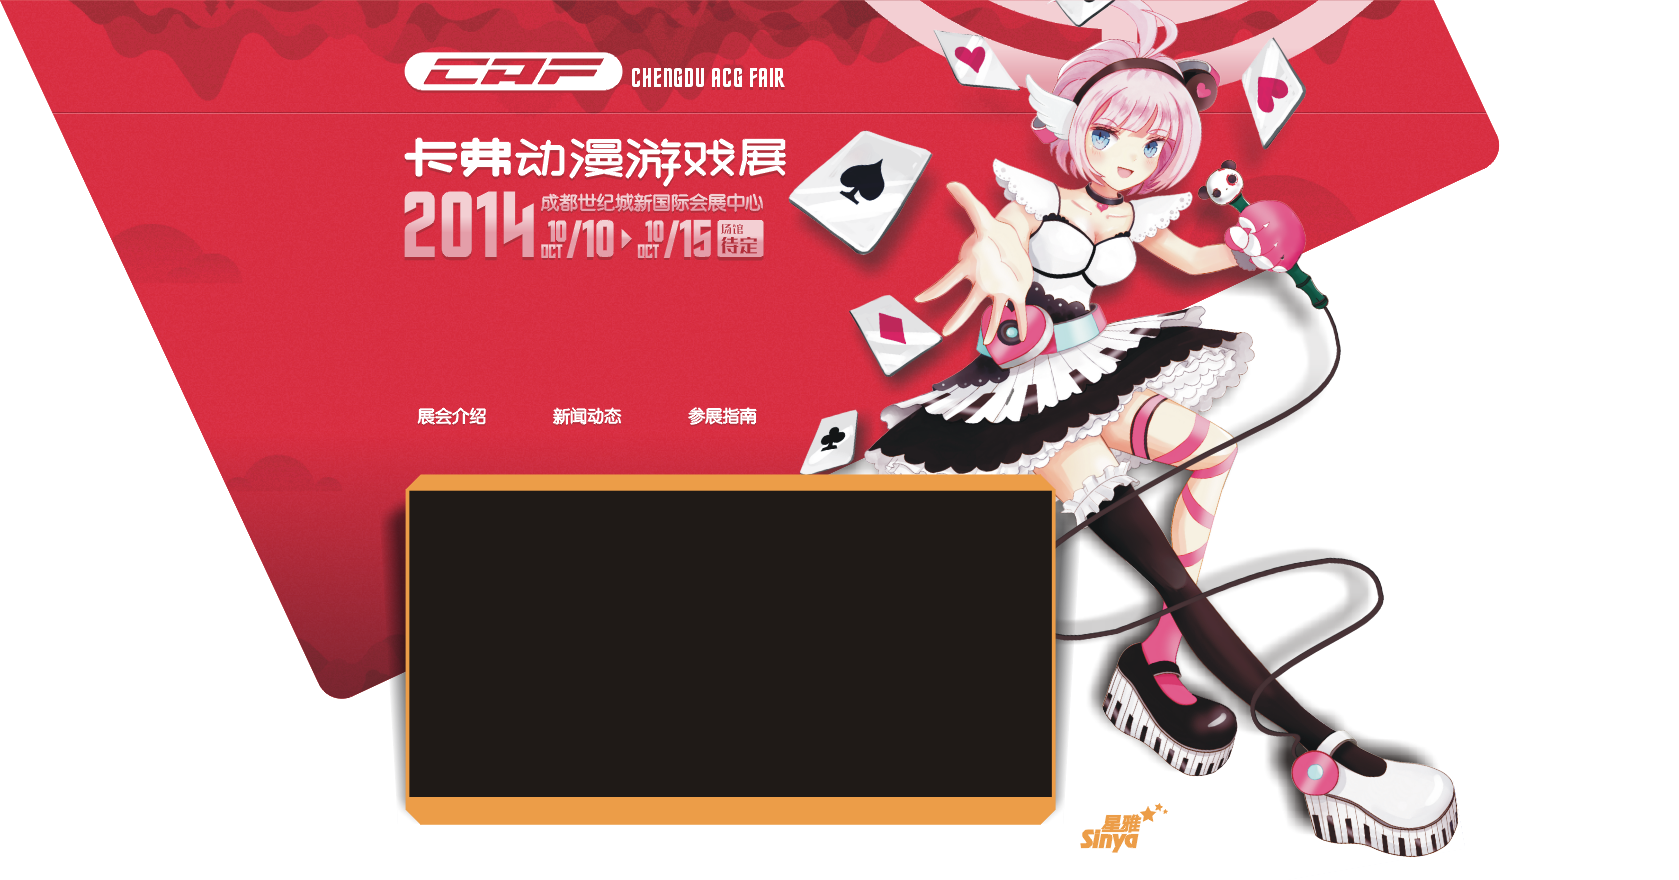
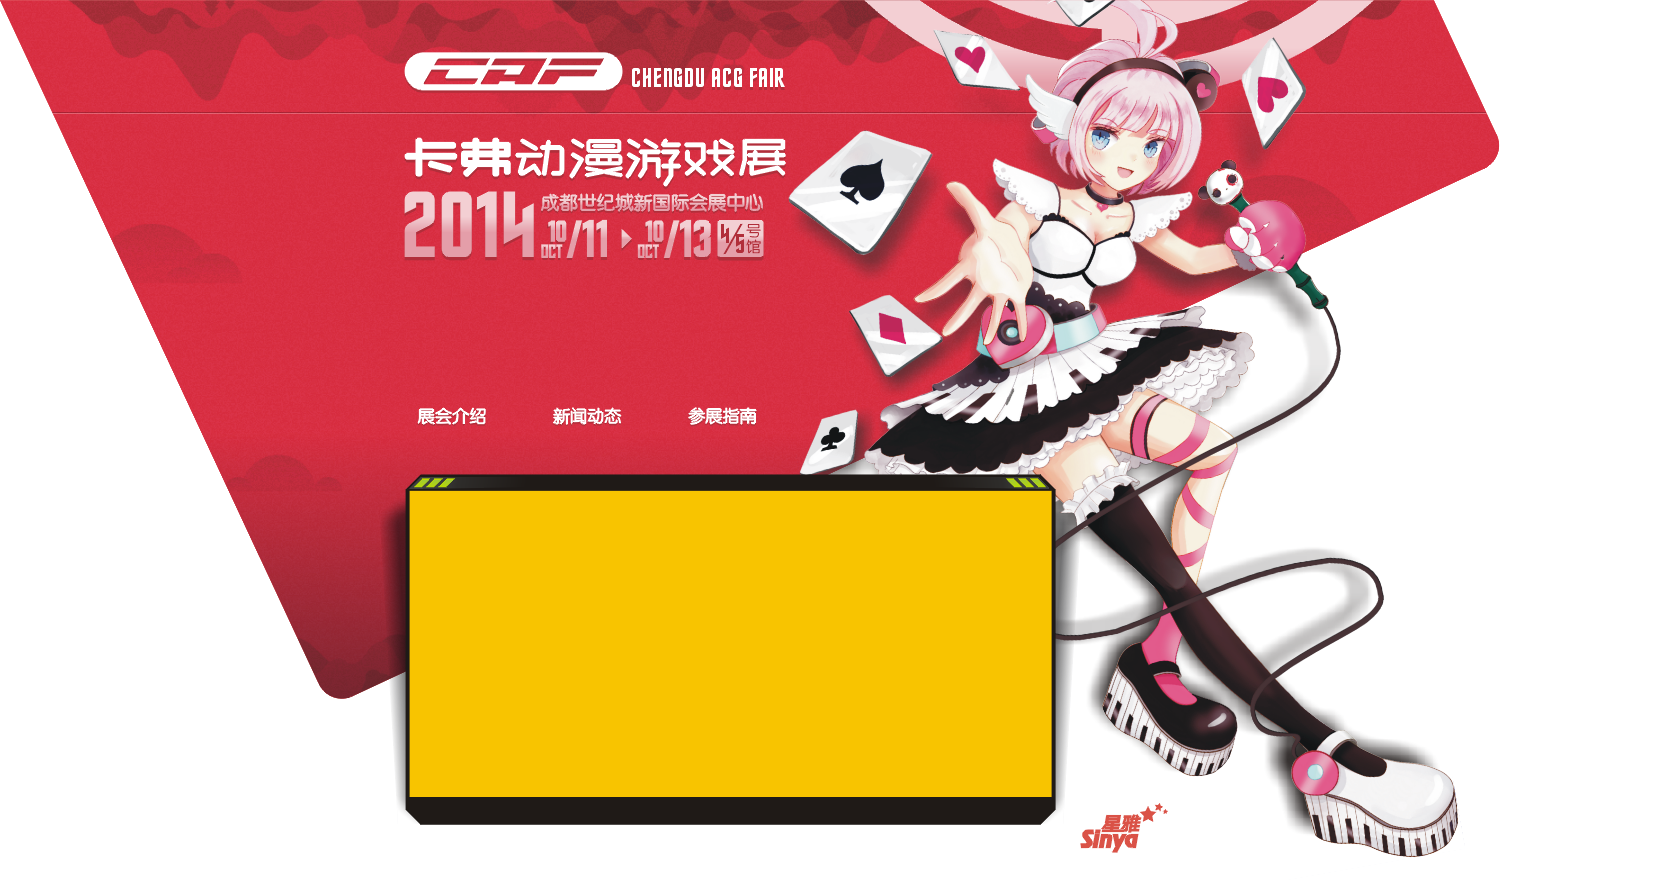
1.modified index page 2.modified some pic source

Changed region(s): [[0.2168, 0.5216, 0.6814, 0.9818], [0.4026, 0.2455, 0.4646, 0.3068], [0.3407, 0.2455, 0.3716, 0.3068]]

diff --git a/caf3/css/layout.css b/caf3/css/layout.css
@@ -21,7 +21,7 @@
 #newsRight{width: 270px;height: 270px;float: right;margin-top: 112px;margin-right: 60px;}
 #newsButton{width:259px;height: 75px;float: none;margin-bottom: 20px;}
 
-.newsLeft{width: 520px;height: 225px;background: #FFF;float: left;margin-top: 152px;margin-left: 60px;}
+.newsLeft{width: 520px;height: 265px;float: left;margin-top: 105px;margin-left: 60px;}
 
 
 #media{width: 960px;height: 550px;background: #F5EB00;}
@@ -54,16 +54,121 @@
 
 
 /*news style*/
-.newsLeft ul{ width: 500px;float: left;margin-left: 10px;}
+.newsLeft ul{ width: 500px;float: left;}
 .newsLeft ul li{
 	font-size: 80%;
 	margin-top: 10px;
 	list-style-type: disc;
 	border-bottom: 1px #000 dashed;
-
-
+}
+.newsList{ width: 520px;height: 230px;margin-top: 35px;background: #FFF;}
+.newsList ul{width: 500px; float: left;padding-left: 10px;padding-right: 10px;}
+.newsList ul li{
+	font-size: 80%;
+	margin-top: 10px;
+	border-bottom: 1px #000 dashed;
+	list-style-type: none;
 }
 
+
+
+
+/*wrapper style*/
+#wBanner{width: 1680px;height: 370px;background:#fff;}
+#wNavBar{width: 1680px;height: 30px;background: url(images/wNavBar.png) no-repeat;margin-left: 172px;}
+#wNavButton{position: relative; text-align: center;margin-left:auto;margin-right: auto;z-index: 1;display: block;}
+#wContainer{zoom:1;overflow: hidden;min-height: 400px;width: auto;position: relative;background: url(images/wBg.png);}
+#wUpper{position: absolute;background: url(images/wContainer.png) no-repeat;height: 310px;width: 1344px;margin-left: 186px;}
+#wContentContainer{position:absolute;width:870px;height: auto;margin-left:404px;}
+#wContent{min-height: 400px;width: 870px;background: #EBEBEB;}
+#wContentBottom{height:200px;background: url(images/wContentBottom.png);}
+#wButton{width: 72px;height: 96px;float: left;margin-left: 399px;margin-top: 59px;}
+#wFooter{width: 960px;height: 150px;float: left;background: url(images/wFooter.png);margin-left: 360px;}
+
+/* wrapper nav Button */
+.btn{
+	width: 90px;
+	border: none;
+	font-family: inherit;
+	font-size: 15px;
+	color: inherit;
+	background: none;
+	cursor: pointer;
+	padding: 5px 10px;
+	display: inline-block;
+	text-transform: uppercase;
+	letter-spacing: 1px;
+	font-weight: 100;
+	outline: none;
+	position: relative;
+	-webkit-transition:all 0.3s;
+	-moz-transition:all 0.3s;
+	transition: all 0.3s;
+}
+.btn:after{
+	content:'';
+	position: absolute;
+	z-index: -1;
+	-webkit-transition:all 0.3s;
+	-moz-transition:all 0.3s;
+	transition:all 0.3s;
+}
+.btn:before{
+	font-family: 'icomoon';
+	speak:none;
+	font-style: normal;
+	font-weight: normal;
+	font-variant: normal;
+	text-transform: none;
+	line-height: 1;
+	position: relative;
+	-webkit-font-smoothing:antialiased;
+}
+
+.btn-1{border:none;}
+.btn-1e{
+	overflow: hidden;
+}
+.btn-1e:after{
+	width: 100%;
+	height: 0;
+	top:50%;
+	left: 50%;
+	background: #f00;
+	opacity: 0;
+	-webkit-transform:translateX(-50%) translateY(-50%) rotate(135deg);
+	-moz-transform: translateX(-50%) translateY(-50%) rotate(135deg);
+	-ms-transform:translateX(-50%) translateY(-50%) rotate(135deg);
+	transform:translateX(-50%) translateY(-50%) rotate(135deg);
+}
+.btn-1e:hover,
+.btn-1e:active{
+	color:#fff;
+}
+.btn-1e:hover:after{
+	height: 260%;
+	opacity: 1;
+}
+.btn-1e:active:after{
+	height: 400%;
+	opacity: 1;
+}
+
+/*news list and detail style*/
+#newsList{font-size: 14px;margin-left: 80px;margin-right: 80px;margin-top: 80px;background: #FFF;padding-left:40px;padding-right: 40px;padding-top: 40px;padding-bottom: 40px; }
+#newsColum{margin-top: 10px;border-bottom: 1px dashed #BEBEBE;padding-bottom: 5px;}
+#newsColum span{float:right;color: blue;}
+#newsDetail{font-size: 14px;margin-left: 80px;margin-right: 80px;margin-top: 80px;background: #FFF;padding:40px 40px 40px 40px;}
+
+/*news tab style*/
+/*#box{width: 400px;height: 300px;margin: 100px auto 0;}
+#tab_nav{margin-bottom:15px;padding: 0;height: 32px;line-height: 24px;}
+#tab_nav li{float: left;margin: 0 0px;list-style: none;font: bold 4em/273px,Verdana,Arial,Helvetica,sans-serif; text-align: center;overflow: hidden;}
+a{font: bold 14px/24px Verdana,Arial,Helvetica,sans-serif;text-decoration: none;}
+a:hover{color: red;}
+#tab_content{width: 520px;height: 225px;border:1px solid #999;font: bold 4em/273px Verdana,Arial,Helvetica,sans-serif;text-align: center;background: #FFF;overflow: hidden;}
+#t_1,#t_2,#t_3{width: 100%;height: 225px;}
+*/
 
 nav,menu,ul,li{
 	margin: 0;
@@ -97,7 +202,7 @@ table{
 ------------------------------------------*/
 
 body{
-	font-family: 'Droid Sans',sans-serif;;
+	font-family: 'Droid Sans',sans-serif;
 }
 
 .clearfix{

diff --git a/caf3/css/grid.css b/caf3/css/grid.css
@@ -143,7 +143,8 @@ h3 {
 p {
   color: #999;
   margin: 0 auto;
-  max-width: 30rem;
+  max-width: 38rem;
+  font-family: 
 }
 
 blockquote { margin: 0; }
@@ -264,7 +265,7 @@ hr.small { margin: 1.5rem auto; }
 img {
   display: block;
   height: auto;
-  margin: 0 auto 1.5rem auto;
+  margin: 0 0 0 0;
   width: 100%;
 }
 

diff --git a/caf3/index2.php b/caf3/index2.php
@@ -20,6 +20,7 @@
 		
 		<script type="text/javascript" src="css/scripts/jquery-1.11.0.min.js"></script>
     	<script type="text/javascript" src="css/scripts/jquery.nivo.slider.js"></script>
+    	<script type="text/javascript" src="css/scripts/wrapper.js"></script>
     	<script type="text/javascript">
     		$(window).load(function() {
         	$('#slider').nivoSlider();
@@ -35,19 +36,19 @@
 		<div id="container">
 			<div id="banner">
 				<div id="bannerButtons">
-					<div id="bannerButton"><a href="#"><img src="css/images/b_button 1a.png" onmouseover="this.src='css/images/b_button 1b.png'" onmouseout="this.src='css/images/b_button 1a.png'" /></a></div>
-					<div id="bannerButton"><a href="#"><img src="css/images/b_button 2a.png" onmouseover="this.src='css/images/b_button 2b.png'" onmouseout="this.src='css/images/b_button 2a.png'" /></a></div>
-					<div id="bannerButton"><a href="#"><img src="css/images/b_button 3a.png" onmouseover="this.src='css/images/b_button 3b.png'" onmouseout="this.src='css/images/b_button 3a.png'" /></a></div>
+					<div id="bannerButton"><a href="wrapper.php?sid=1&mid=1"><img src="css/images/b_button 1a.png" onmouseover="this.src='css/images/b_button 1b.png'" onmouseout="this.src='css/images/b_button 1a.png'" /></a></div>
+					<div id="bannerButton"><a href="wrapper.php?sid=5&mid=2"><img src="css/images/b_button 2a.png" onmouseover="this.src='css/images/b_button 2b.png'" onmouseout="this.src='css/images/b_button 2a.png'" /></a></div>
+					<div id="bannerButton"><a href="wrapper.php?sid=8&mid=3"><img src="css/images/b_button 3a.png" onmouseover="this.src='css/images/b_button 3b.png'" onmouseout="this.src='css/images/b_button 3a.png'" /></a></div>
 				</div>
 				
 				<div class="clearfloat"></div>
 				<div id="sliderBar">
 					<div class="slider-wrapper theme-default">
             			<div id="slider" class="nivoSlider">
-                			<img src="css/images/banner.png" data-thumb="css/images/banner.png" alt="" />
-                			<img src="css/images/banner.png" data-thumb="css/images/banner.png" alt="" title="This is an example of a caption" />
-                			<img src="css/images/banner.png" data-thumb="css/images/banner.png" alt="" data-transition="slideInLeft" />
-                			<img src="css/images/banner.png" data-thumb="css/images/banner.png" alt="" title="#htmlcaption" />
+                			<img src="css/images/pic_mov1.jpg" data-thumb="css/images/pic_mov1.jpg" alt="" />
+                			<img src="css/images/pic_mov1.jpg" data-thumb="css/images/pic_mov1.jpg" alt="" title="" />
+                			<img src="css/images/pic_mov1.jpg" data-thumb="css/images/pic_mov1.jpg" alt="" data-transition="slideInLeft" />
+                			<img src="css/images/pic_mov1.jpg" data-thumb="css/images/pic_mov1.jpg" alt="" title="" />
             			</div>
 			        </div>
 				</div>
@@ -61,14 +62,14 @@
 					</div>
 
 					<div id="navButtons">
-						<div id="navButton"><a href="#"><img src="css/images/e_button 1a.png" onmouseover="this.src='css/images/e_button 1b.png'" onmouseout="this.src='css/images/e_button 1a.png'" /></a></div>
-						<div id="navButton"><a href="#"><img src="css/images/e_button 2a.png" onmouseover="this.src='css/images/e_button 2b.png'" onmouseout="this.src='css/images/e_button 2a.png'" /></a></div>
-						<div id="navButton"><a href="#"><img src="css/images/e_button 3a.png" onmouseover="this.src='css/images/e_button 3b.png'" onmouseout="this.src='css/images/e_button 3a.png'" /></a></div>
+						<div id="navButton" onClick="Page_jump('sid=7&mid=2')"><img src="css/images/e_button 1a.png" onmouseover="this.src='css/images/e_button 1b.png'" onmouseout="this.src='css/images/e_button 1a.png'" /></div>
+						<div id="navButton" onClick="Page_jump('sid=8&mid=3')"><img src="css/images/e_button 2a.png" onmouseover="this.src='css/images/e_button 2b.png'" onmouseout="this.src='css/images/e_button 2a.png'" /></div>
+						<div id="navButton" onClick="Page_jump('sid=9&mid=3')"><img src="css/images/e_button 3a.png" onmouseover="this.src='css/images/e_button 3b.png'" onmouseout="this.src='css/images/e_button 3a.png'" /></div>
 					</div>
 					<div id="navButtons">
-						<div id="navButton"><a href="#"><img src="css/images/e_button 4a.png" onmouseover="this.src='css/images/e_button 4b.png'" onmouseout="this.src='css/images/e_button 4a.png'" /></a></div>
-						<div id="navButton"><a href="#"><img src="css/images/e_button 5a.png" onmouseover="this.src='css/images/e_button 5b.png'" onmouseout="this.src='css/images/e_button 5a.png'" /></a></div>
-						<div id="navButton"><a href="#"><img src="css/images/e_button 6a.png" onmouseover="this.src='css/images/e_button 6b.png'" onmouseout="this.src='css/images/e_button 6a.png'" /></a></div>
+						<div id="navButton" onClick="Page_jump('sid=3&mid=1')"><img src="css/images/e_button 4a.png" onmouseover="this.src='css/images/e_button 4b.png'" onmouseout="this.src='css/images/e_button 4a.png'" /></div>
+						<div id="navButton" onClick="Page_jump('sid=12&mid=3')"><img src="css/images/e_button 5a.png" onmouseover="this.src='css/images/e_button 5b.png'" onmouseout="this.src='css/images/e_button 5a.png'" /></div>
+						<div id="navButton" onClick="Page_jump('sid=13&mid=4')"><img src="css/images/e_button 6a.png" onmouseover="this.src='css/images/e_button 6b.png'" onmouseout="this.src='css/images/e_button 6a.png'" /></div>
 					</div>
 
 				</div>
@@ -78,7 +79,9 @@
 				<div id="news">
 					<div class="clearfloat"></div>
 					<div id="newsContent">
+						<div class="clearfloat"></div>
 						<div class="newsLeft">
+							<div class="newsList">
 							<ul>
 							<?php
 								$sql="SELECT * FROM p_newsbase ORDER BY id DESC LIMIT 0,8";
@@ -87,7 +90,7 @@
 							
 							?>
 							<li>	
-								<a href="#">
+								<a href="wrapper.php?sid=5&mid=2&nid=<?=$row['id']?>">
 									<?=$row['title']?>
 								</a>
 								<span style="float:right">
@@ -97,7 +100,28 @@
 							<?php
 								}
 							?>
-						</ul>
+							</ul>
+							</div>
+<!--							
+								<ul id="tab_nav">
+									<li><a href="#t_1"><img src="css/images/news_button 1a.png"></a></li>
+									<li><a href="#t_2"><img src="css/images/news_button 2a.png"></a></li>
+									<li><a href="#t_3"><img src="css/images/news_button 3a.png"></a></li>
+								</ul>
+								<div id="tab_content">
+									<div id="t_1">
+									</div>
+
+									<div id="t_2">
+									</div>
+
+									<div id="t_3">
+									</div>
+								</div>
+-->							
+
+
+
 						</div>
 
 						<div id="newsRight">
@@ -142,8 +166,7 @@
 
 						<div id="mediaPicArea">	
 							<div id="mediaPic">
-								<a href=" <?=$row['url']?> ">
-									<span style="position:absolute"><?=$row['title']?></span>
+								<a href="<?=$row['url']?>" target="_blank">
 									<img src=" <?=$row['sample']?> ">
 								</a>
 								
@@ -167,7 +190,7 @@
 
 						<div id="contactLeftDown">
 							<div id="contactLeftDown1"></div>
-							<div id="contactLeftDown2"></div>
+							<div id="contactLeftDown2" style="display:none"></div>
 						</div>
 
 					</div>
@@ -177,7 +200,7 @@
 				</div>
 
 				<div class="clearfloat"></div>
-
+<!--
 				<div id="partner">
 					<?php
 						$sql="SELECT * FROM p_partner ORDER BY id DESC LIMIT 0,21";
@@ -187,14 +210,14 @@
 					?>
 					<div id="partnerLogo">	
 						<a href=" <?=$row['url']?> ">
-							<span style="position:absolute"><?=$row['name']?></span><img src=" <?=$row['image']?> ">
+							<span style="position:absolute"><?=$row['name']?></span><img style="width:100px;height:56px" src=" <?=$row['image']?> ">
 						</a>
 					</div>
 					<?php
 						}
 					?>
 				</div>
-
+-->
 				<div class="clearfloat"></div>
 
 			</div>
